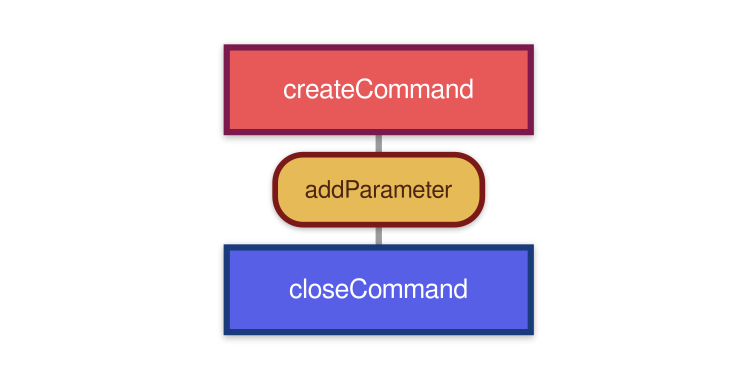
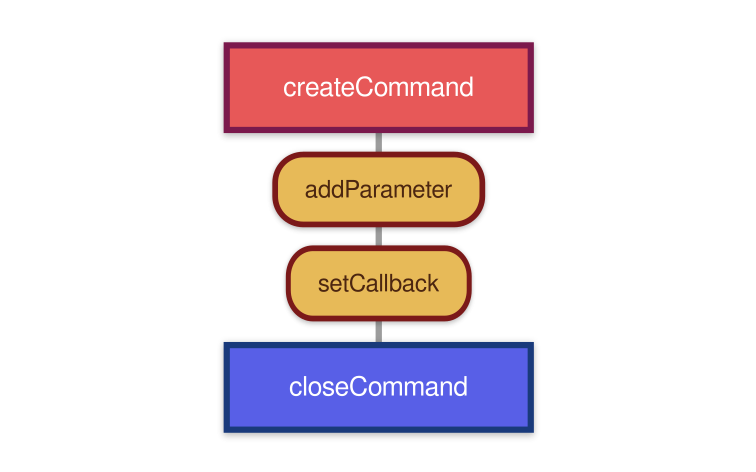
Updated README

Changed region(s): [[0.2738, 0.0873, 0.7302, 0.8439], [0.2738, 0.873, 0.7302, 0.9312]]

diff --git a/README.md b/README.md
@@ -66,15 +66,16 @@ Go to **/src/modules/commands/** and open **commands_list.ts**.
 To create a command you need to use the **createCommand** function.
 
 ```js
-createCommand(['alias'],
-    callback(),
-    { 
-        // Command options
-        // - Optional
-    },
-    { 
-        // Command info
-        // - Optional, but recommended
+createCommand(['alias'], {
+        // Command options (Optional)
+        options: { /* ... */ },
+
+        // Command info (Optional, but recommended)
+        info: { /* ... */ },
+    })
+    // Command callback
+    .setCallback((args, message) => {
+        console.log('Number: ', args[0]);
     })
     .addParameter('number')
 .closeCommand(); // Add command to list
@@ -98,9 +99,11 @@ createCommand(['ping', 'pingpong', 'p']) /* etc... */
 When a command is invoked, this function is called. You can read the arguments passed by the user using the "args" variable, and use the "message" object to interact with the chat.
 
 ```js
-createCommand(['alias'],
-    // My callback:
-    (args, message) => {
+createCommand(['alias'])
+    // Receive argument of type string
+    .addParameter('string')
+    // Command execution
+    .setCallback((args, message) => {
         if (args[0] === 'Hi') {
             // Send "Hello!"
             send_response('Hello!', message);
@@ -108,48 +111,41 @@ createCommand(['alias'],
             // Send "Bye!"
             send_response('Bye!', message);
         }
-    } /* etc... */)
+    })
 .closeCommand(); // Add command to list
 ```
 [Send Response](#send-response)
 
-### Command options:
+### Command Data:
 
 ```js
 {
-    // If true, command can only be executed by admin
-    adminOnly: boolean,
+    options: {
+        // If true, command can only be executed by admin
+        adminOnly: boolean,
 
-    // The command must be or not a quoted message
-    needQuotedMessage: boolean,
-}
-```
+        // The command must be or not a quoted message
+        needQuotedMessage: boolean,
+    },
 
-### Command info:
-
-This information will be used by the "help" command to describe the command itself.
-
-```js
-{
-    name: string,           // Command name
-    description: string     // What it does
+    // This information will be used by the "help" command to describe the command itself.
+    info: {
+        name: string,           // Command name
+        description: string,    // What it does
+    }
 }
 ```
 
 ## Command Parameters:
 
 ```js
-addParameter(ParameterType, defaultValue?, ParameterInfo?);
+addParameter(ParameterType, ParameterInfo?, defaultValue?);
 ```
 
 ### Parameter Type:
 ```ts
 type ParameterType = 'string' | 'number' | 'boolean' | 'any';
 ```
-
-### Parameter default value:
-
-If the parameter is an optional argument, set its default value here. Otherwise, **undefined** should do the trick.
 
 ### Parameter info:
 
@@ -159,21 +155,33 @@ This information will be used by the "help" command to describe the parameter.
 {
     name: string,           // Parameter name
     description: string,    // What it does
-    example: string         // Example value for parameter
+    example: string         // Value used in the example 
 }
 ```
+
+### Parameter default value:
+
+If the parameter is an optional argument, set its default value here. Otherwise, **undefined** should do the trick.
 
 ### Example:
 
 ```ts
-createCommand(['foo'], (args, message) => {
+createCommand(['foo'])
+    .addParameter('string', {
+        name: 'Argument',
+        description: 'Parameter 1 description',
+        example: 'Lorem ipsum dolor',
+    })
+    // You should always put optional parameters at the end, such as the following. Otherwise it may cause problems.
+    .addParameter('number', {
+        name: 'Optional Argument',
+        description: 'Parameter 2 description',
+        example: '123',
+    }, 456 /* Now it's an optional parameter */ )
+    .setCallback((args, message) => {
         // Do something
     })
-    .addParameter('string', undefined, { name: 'Argument', description: 'Parameter 1 description', example: 'Lorem ipsum dolor' })
-    // You should always put optional parameters at the end, such as the following. Otherwise it may cause problems.
-    .addParameter('boolean', true, { name: 'Optional Argument', description: 'Parameter 2 description', example: 'true' })
-    // ... etc ...
-.closeCommand()
+.closeCommand();
 ```
 
 <div align="center">
@@ -216,15 +224,19 @@ For more information on MessageSendOptions, see: https://docs.wwebjs.dev/global.
 
 Command with **no arguments**:
 ```js
-createCommand(['ping', 'pingpong'], (args, message) => {
-        send_response('Pong!', message, { reaction: '🏓' })
-    },
-    // Command options
-    { adminOnly: true },
-    // Command info
-    {
-        name: 'Ping',
-        description: 'Ping-pong! 🏓',
+createCommand(['ping', 'pingpong'], {
+        // Command options
+        options: {
+            adminOnly: true,
+        },
+        // Command info
+        info: {
+            name: 'Ping',
+            description: 'Ping-pong! 🏓',
+        }
+    })
+    .setCallback((args, message) => {
+        send_response('Pong!', message, { reaction: '🏓', });
     })
 .closeCommand();
 ```
@@ -237,7 +249,23 @@ createCommand(['ping', 'pingpong'], (args, message) => {
 Command with arguments:
 
 ```ts
-createCommand(['repeat'], (args, message) => {
+createCommand(['repeat'], {
+        info: {
+            name: 'Repeat text'
+        }
+    })
+    .addParameter('string', {
+        name: 'Text',
+        description: 'Text to repeat.',
+        example: 'Hello x5',
+    })
+    // You should always put optional parameters at the end, such as the following. Otherwise it may cause problems.
+    .addParameter('number', {
+        name: 'Times', 
+        description: 'Number of times repeated.', 
+        example: '5',
+    }, 1)
+    .setCallback((args, message) => {
         let msgToSend: string = args[0];
 
         for (let i = 1; i < args[1]; i++) {
@@ -245,12 +273,7 @@ createCommand(['repeat'], (args, message) => {
         }
 
         send_response(msgToSend, message, { reply: true }); // Send as reply
-    }, null, {
-        name: 'Repeat text'
     })
-    .addParameter('string', undefined, { name: 'Text', description: 'Text to repeat.', example: 'Hello x5' })
-    // You should always put optional parameters at the end, such as the following. Otherwise it may cause problems.
-    .addParameter('number', 1, { name: 'Times', description: 'Number of times repeated.', example: '5' })
 .closeCommand()
 ```
 
@@ -261,22 +284,23 @@ createCommand(['repeat'], (args, message) => {
 Command with **quoted message**:
 
 ```ts
-createCommand(['quote', 'cite'],
-    async (args, message) => {
+createCommand(['quote', 'cite'], {
+        options: { 
+            needQuotedMessage: true,
+        },
+        info: {
+            name: 'Quote this',
+            description: 'This command makes an author quote with the selected message. It needs to quote a message to work.',
+        }
+    })
+    .setCallback(async (args, message) => {
         message.getQuotedMessage()
         .then((quotedMessage) => {
             const msgToSend = `*" ${quotedMessage.body} "*\n\n` + `- _${quotedMessage._data.notifyName}_`;
             send_response(msgToSend, message);
-        })
-    },
-    // Command options
-    { needQuotedMessage: true },
-    // Command info
-    {
-        name: 'Quote this',
-        description: 'This command makes an author quote with the selected message. It needs to quote a message to work.'
+        });
     })
-.closeCommand();
+.closeCommand();    
 ```
 
 ## Hot-swap
